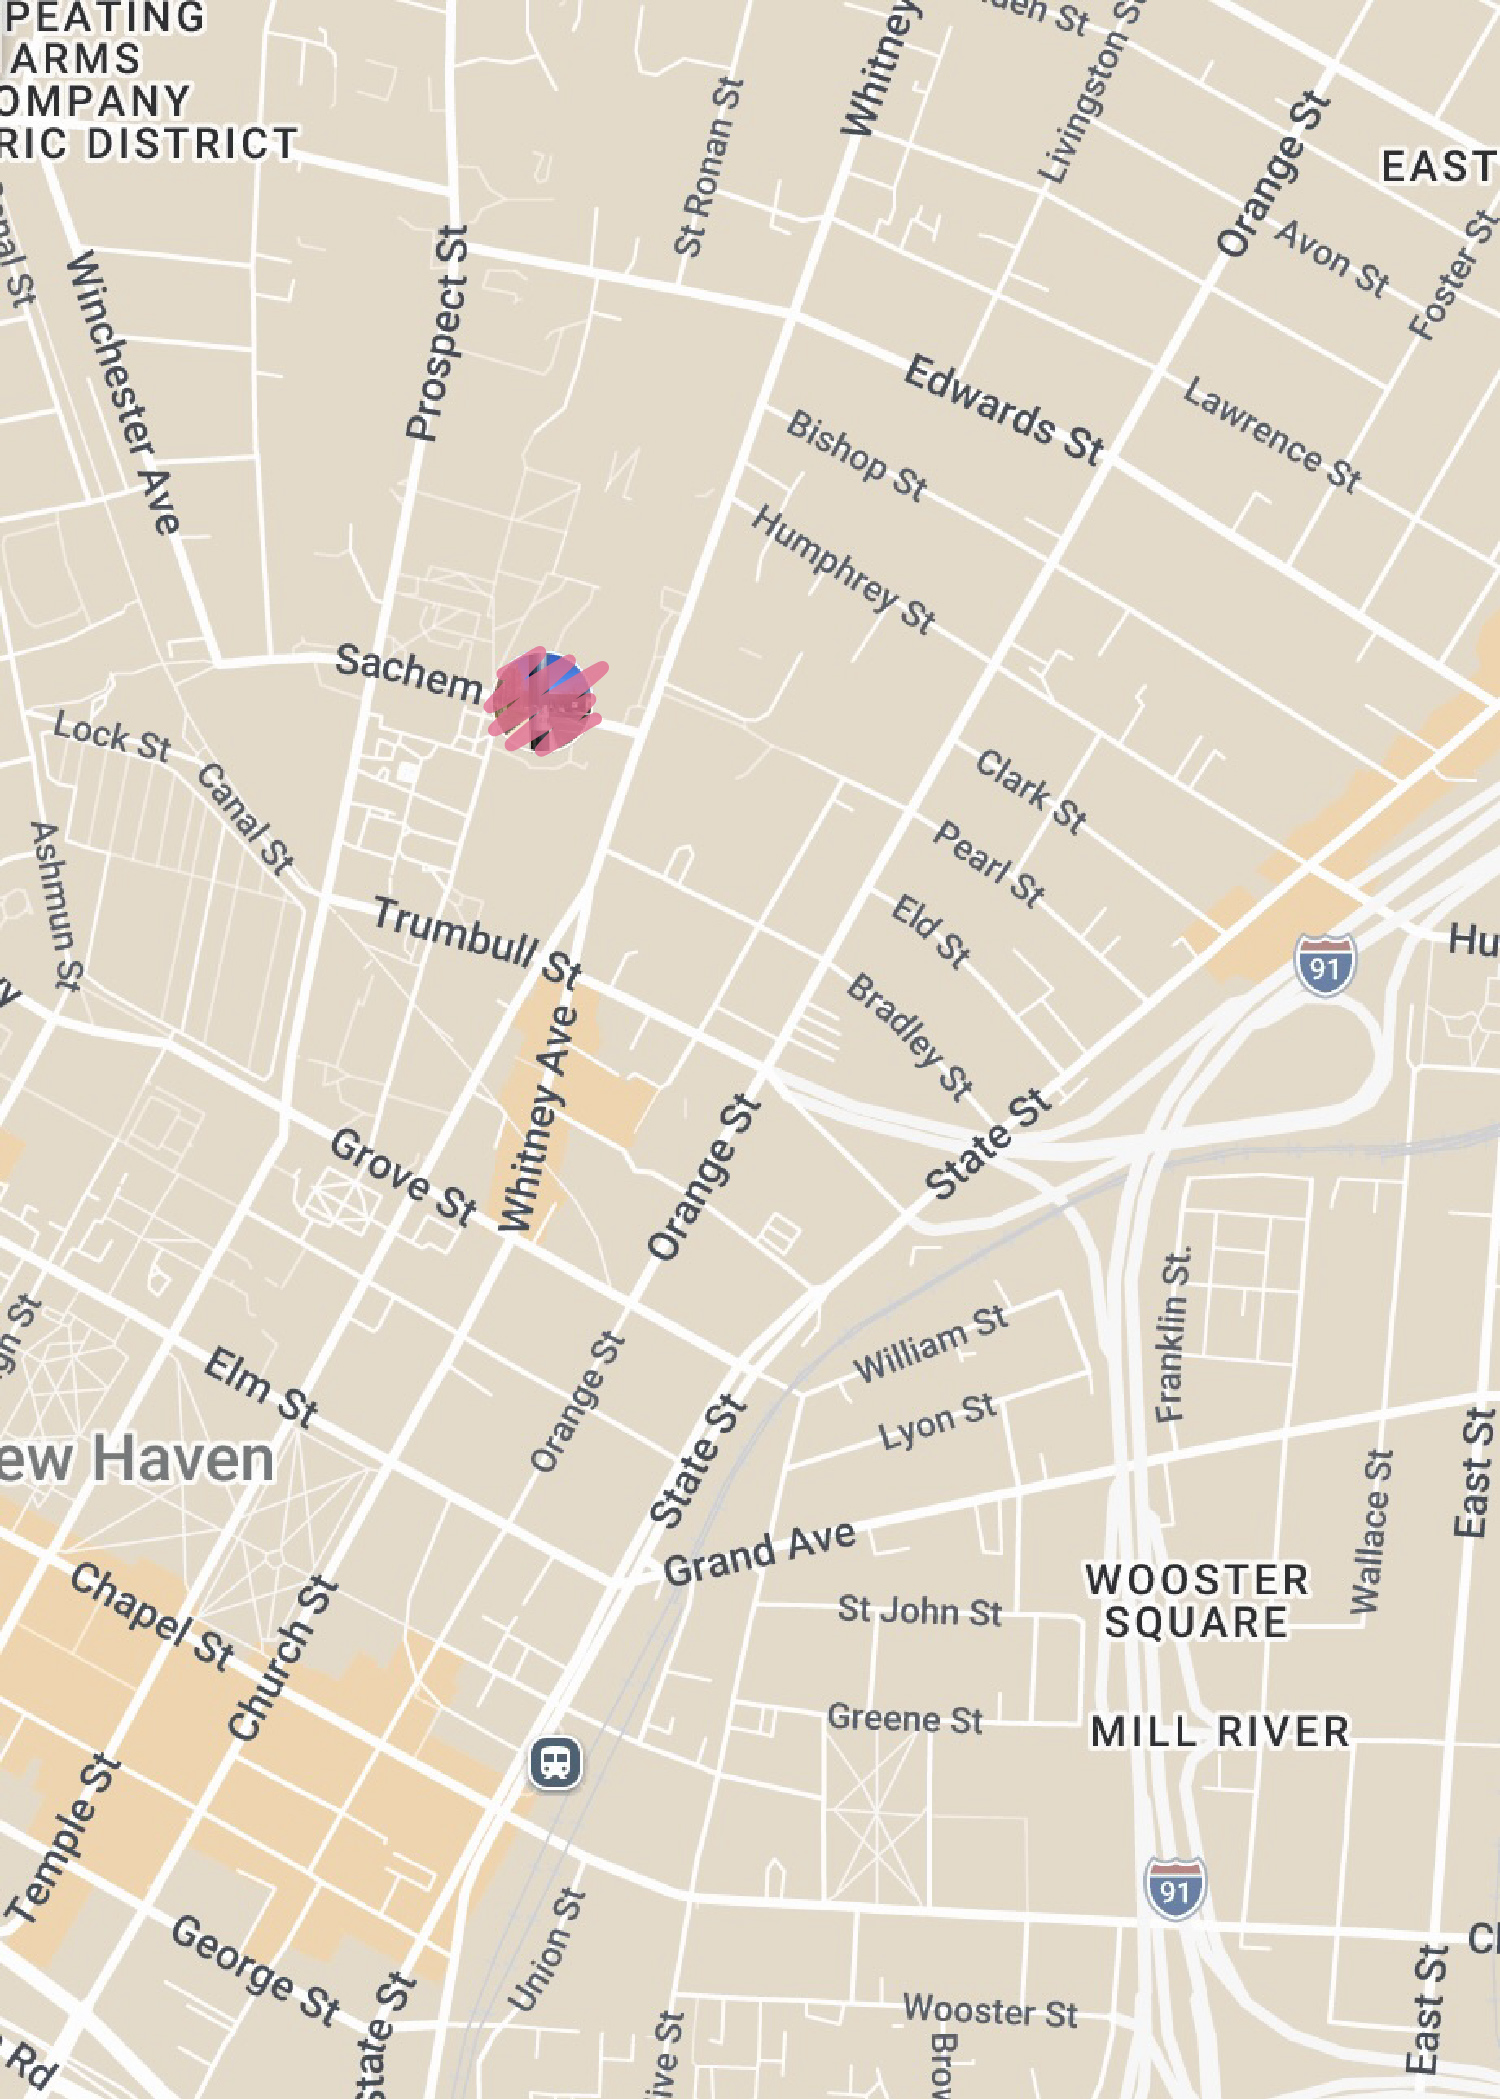
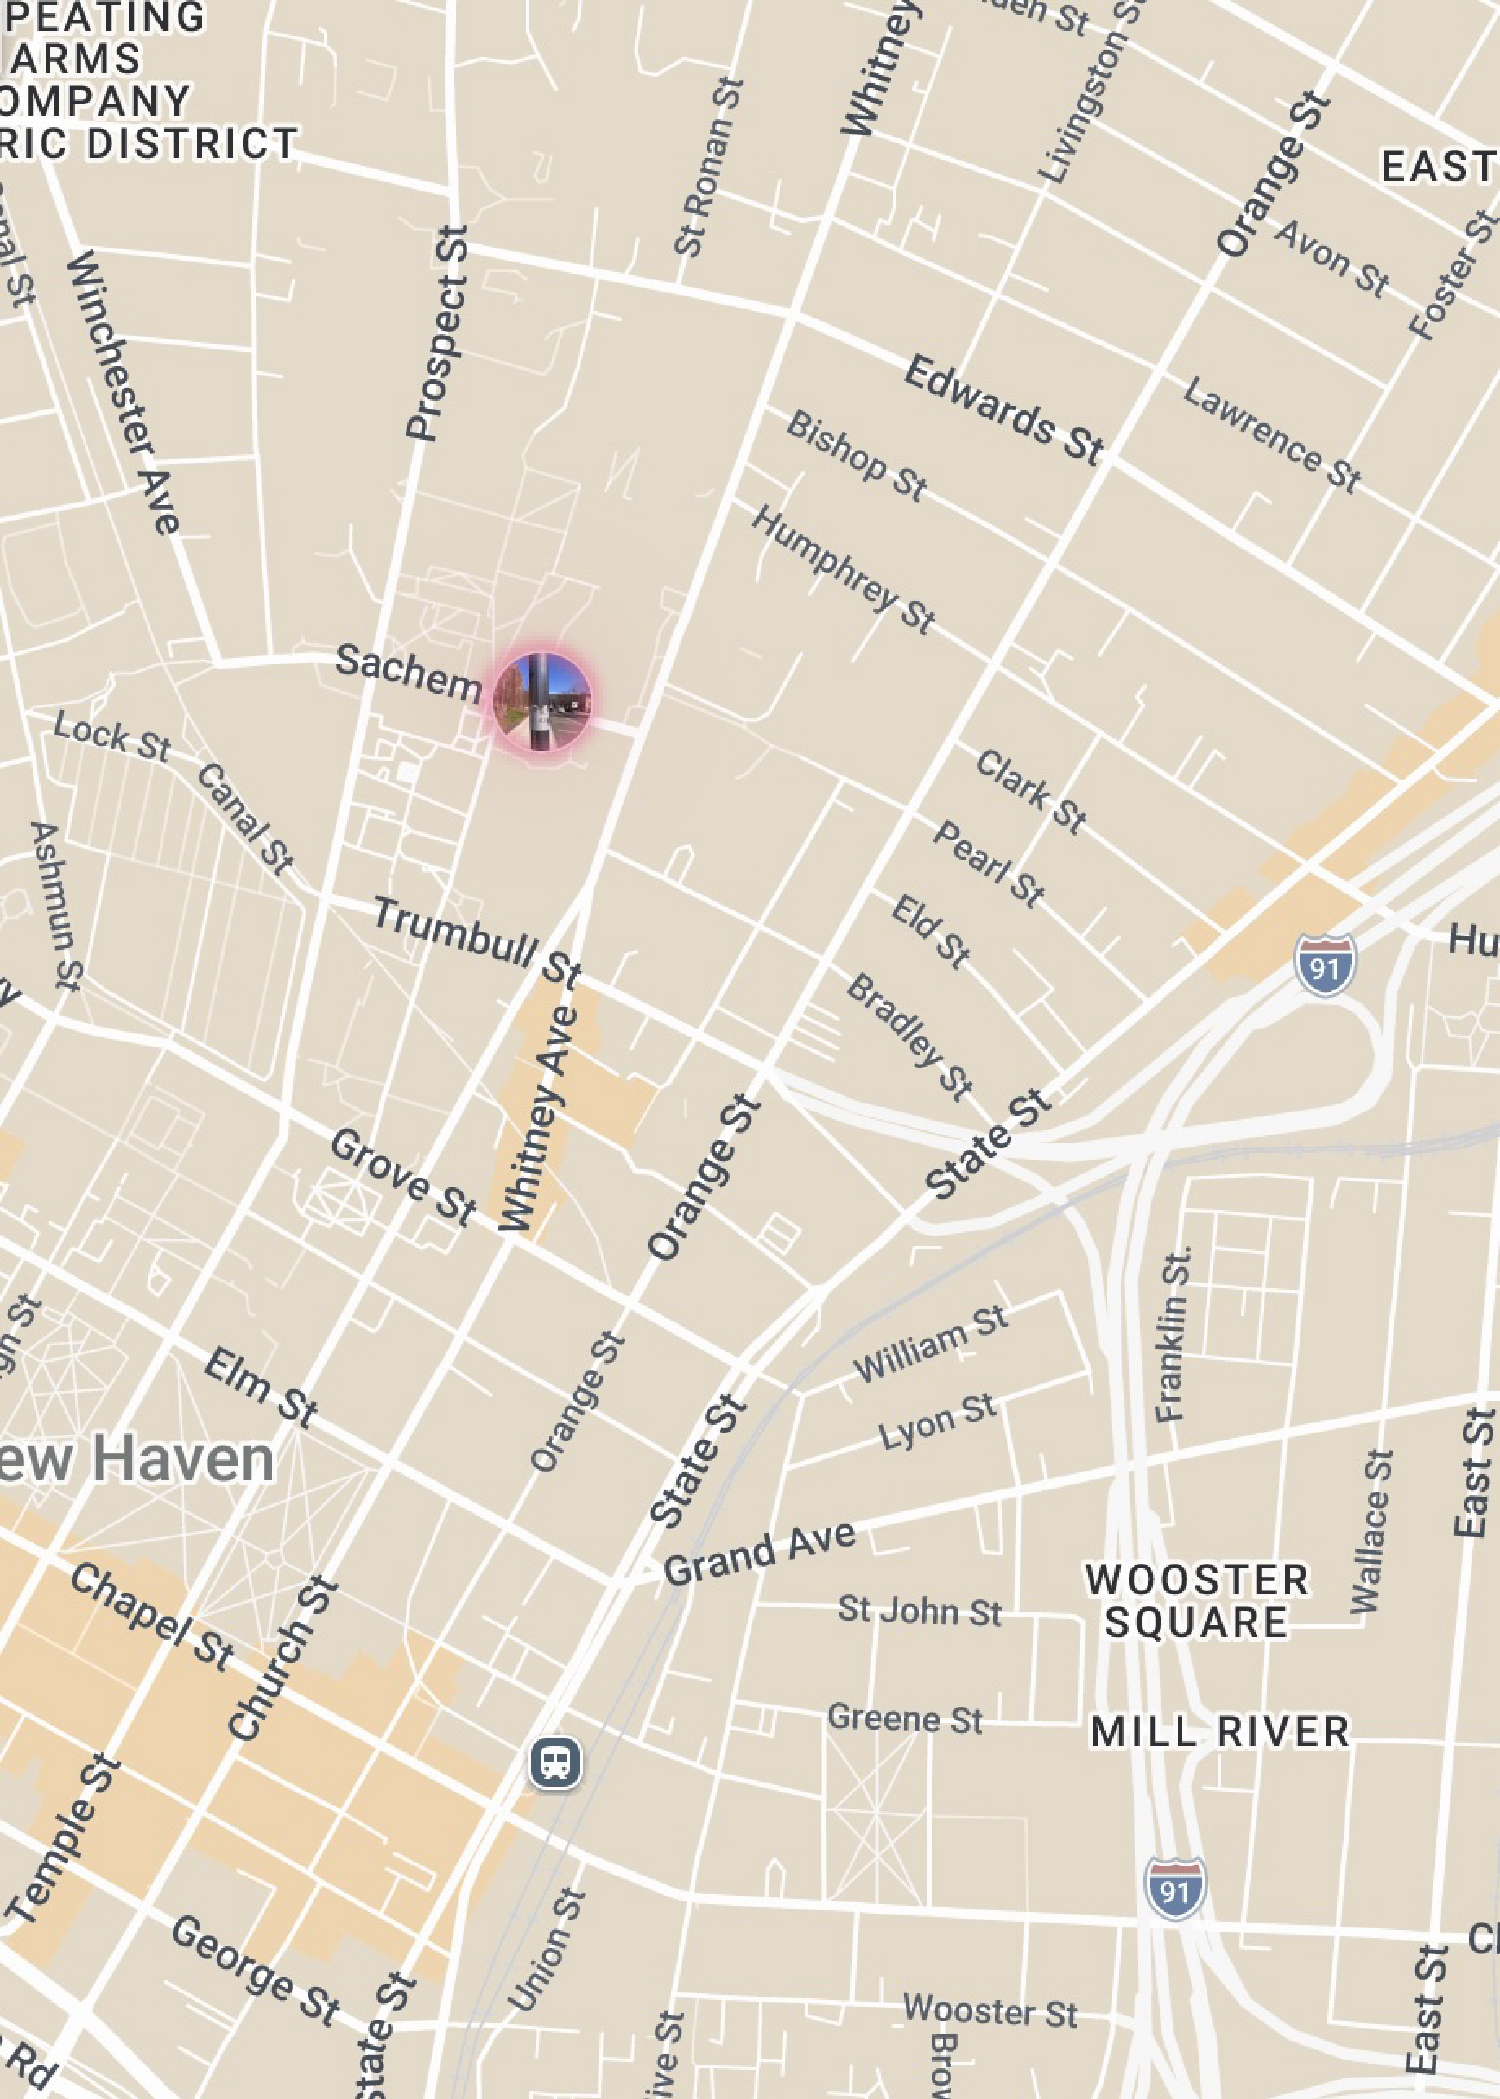
updated map images of stickers highlighted on walk, changed visual language to glow affect rather than highlighted via scribble (still work in progress).

diff --git a/index.html b/index.html
@@ -393,7 +393,7 @@
               <p>As we continued to walk north, the numbers only bloomed.</p>
             </div>
             <div class="step" id="step7">
-              <p>Some stickers even appeared in tight groups, right next to one another, almost impossible to miss.</p>
+              <p>Some stickers even appeared in tight groups of two, three, four, and even five stickers, right next to one another, almost impossible to miss. (A snug cluster of three, pictured here)</p>
               <img src="images/sticker/three.jpeg" style="max-width: 400px; margin: 0 auto" class="glow-image">
             </div>
             <div class="step" id="step8">
